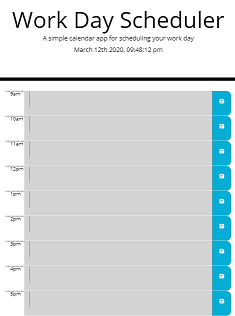
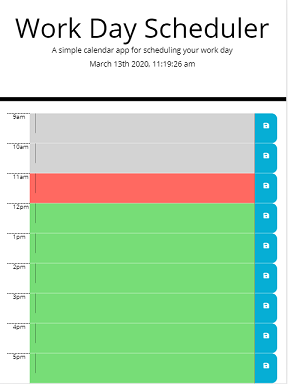
spelling

diff --git a/script.js b/script.js
@@ -56,11 +56,16 @@ $(document).ready(function(){
     setInterval(updateScreen, 60000);
 
 function renderDisplay() {
+
   //Create variable for current hour
   var currentHour = moment().format('H');
-  //rememberObj = JSON.parse(localStorage.getItem("reminders"));
 
-  $(".container").empty();
+  if (currentHour === 0) {
+    localStorage.clear();
+  }
+
+
+    $(".container").empty();
 
   //Loop to add all rows in array
   for (var i=0; i< rememberObj.length; i++) {
@@ -112,7 +117,9 @@ function renderDisplay() {
       textAreaEl: textArea,
     }, rowClicked );
 
-  
+    
+
+    
     //Setting classes for past, present and future events
     if(parseInt(currentHour) === parseInt(rememberObj[i].time)){
       eventDiv.addClass("present");
@@ -123,17 +130,22 @@ function renderDisplay() {
       eventDiv.addClass("future");
       
     }
+    
   }
+  
 }
-
 function rowClicked(event) {
   var reminderTextInput = $(event.data.textAreaEl);
+  console.log(event.data.rowNumber);
   console.log(reminderTextInput[0].value);
+  
   rememberObj[event.data.rowNumber].reminder = reminderTextInput[0].value;
-  //localStorage.setItem("reminders", JSON.stringify(rememberObj));
+  localStorage.setItem("reminders", JSON.stringify(rememberObj));
   
   renderDisplay();
+  rememberObj = JSON.parse(localStorage.getItem("reminders"));
 } 
+
 
 });
 

diff --git a/README.md b/README.md
@@ -1,4 +1,4 @@
-# Work-Day-Schedular
+# Work-Day-Scheduler
 Assignment 5
 
 ## Description
